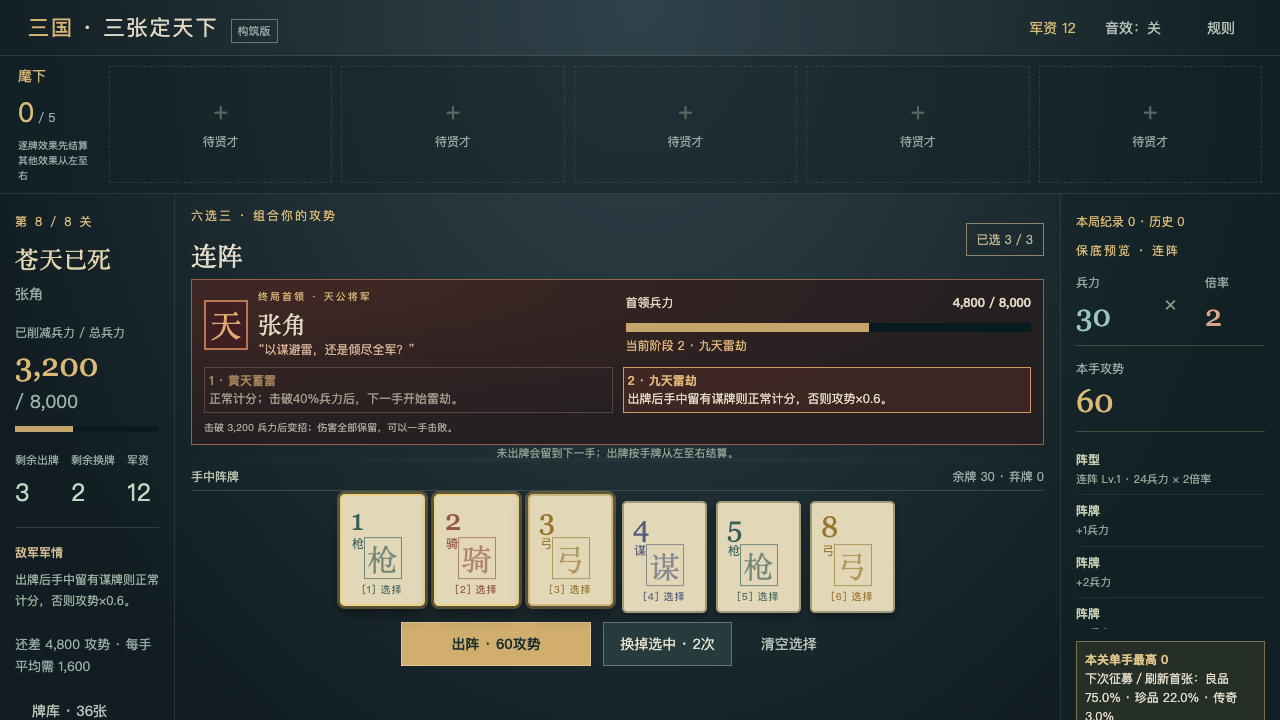
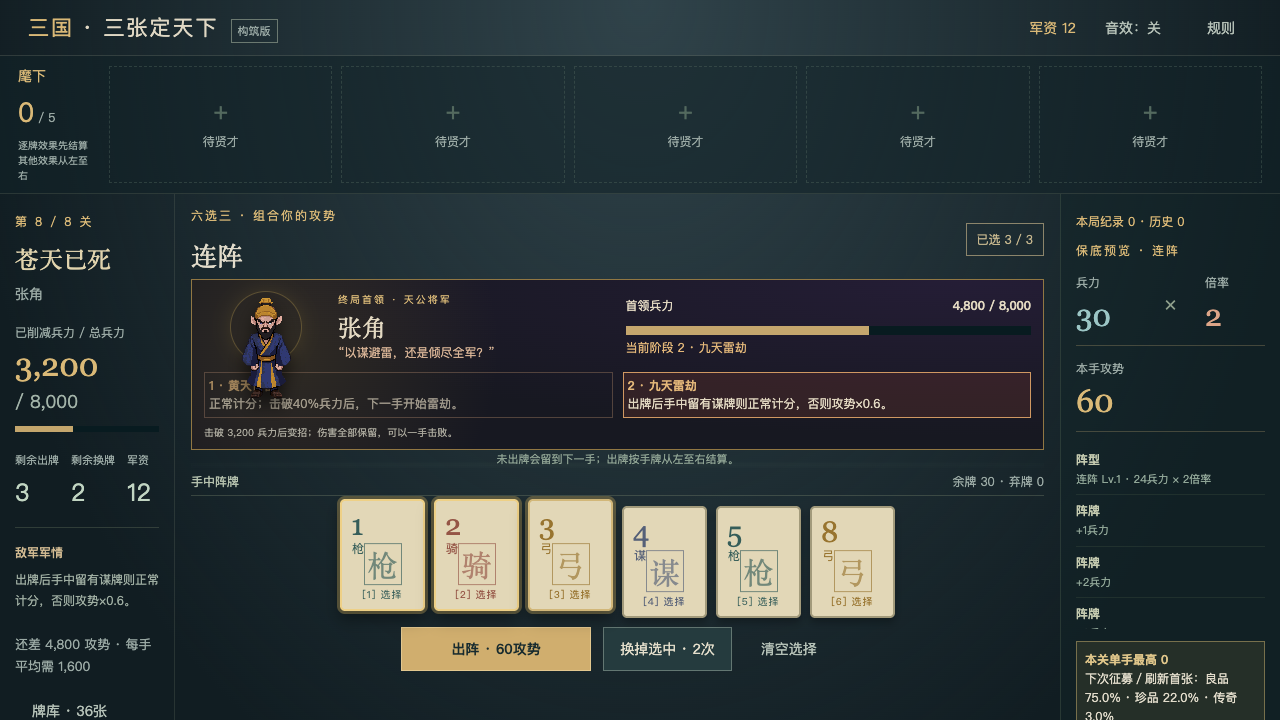
feat: animate Zhang Jiao boss encounter

diff --git a/apps/playtest/src/main.ts b/apps/playtest/src/main.ts
@@ -1,5 +1,6 @@
 import {gamblePanel,rarityPanel} from './burst';
 import {bossPanel} from './boss';
+import {runBossMotion} from './boss-motion';
 import {bossEncounter,forgeRule,newForge,forgeAction,forgeView,previewForge,saveForge,loadForge,backupForge,type ForgeState,type ForgeAction,type ArmyCard,type Score} from '@three-card/core';
 import {forgeStage,companionRarity,RARITY_NAMES,COMPANIONS,COMPANION_IDS,STAGES,FORGE_RULES as R,HAND_NAMES,SUIT_NAMES,type CompanionId} from '@three-card/content';
 const root=document.querySelector<HTMLDivElement>('#app')!;
@@ -23,7 +24,7 @@ function card(c:ArmyCard,i:number,mini=false){return `<button class="army-card $
 function band(){if(!state)return'';return `<section class="warband"><div class="band-title"><span>麾下</span><b>${state.companions.length}<small> / 5</small></b><small>逐牌效果先结算<br>其他效果从左至右</small></div><div class="band-slots">${Array.from({length:5},(_,i)=>{const held=state!.companions[i];if(!held)return`<div class="empty-slot"><b>＋</b><small>待贤才</small></div>`;const c=COMPANIONS[held.id],movable=['battle','shop','prepare'].includes(state!.phase);return `<article class="band-card ${!home&&state!.phase==='result'&&!showAll&&state!.result?.steps[Math.max(0,animation-1)]?.source===c.name?'triggering':''}"><div class="band-name"><span>${c.mark}</span><b>${c.name}</b><small>${c.role}</small></div><p>${c.text}</p><div class="band-bottom"><small>${held.growth?'已成长 +'+held.growth+' 倍率':''}</small>${movable?`<div>${btn('←',`left:${held.id}`,i===0,'move')}${btn('→',`right:${held.id}`,i===state!.companions.length-1,'move')}${state!.phase==='shop'?btn('出售',`sell:${held.id}`,false,'move'):''}</div>`:''}</div></article>`;}).join('')}</div></section>`;}
 function scorePanel(score:Score|null,actual=false){if(!score)return`<p class="eyebrow">出牌预览</p><h2>选择三张阵牌</h2><p class="muted">牌型定基础，组件改变价值。<br>不必每次追求最大的牌型。</p><div class="empty-score">？</div>`;const step=actual&&!showAll?score.steps[Math.max(0,animation-1)]:null;const chips=step?.chips??score.chips,mult=step?.mult??score.mult;return `<p class="eyebrow">${actual?'连锁结算':'保底预览'} · ${HAND_NAMES[score.category]}</p><div class="equation"><span><small>兵力</small><b>${fmt(chips)}</b></span><i>×</i><span><small>倍率</small><b>${fmt(mult)}</b></span></div><div class="total"><small>${score.penalty<1?'军情修正后的攻势':'本手攻势'}</small><b>${actual&&!showAll&&animation<score.steps.length?'···':fmt(score.total)}</b></div>${!actual&&state?.companions.some(c=>c.id==='pursuit')?'<p class="burst-hint">重触发后35%概率追加，最多3次；上方分数不含随机追加。</p>':''}<div class="ledger">${score.steps.slice(0,actual&&!showAll?animation:score.steps.length).map((s,i)=>`<div class="score-step ${actual&&!showAll&&i>=animation?'waiting':''}"><b>${s.source}</b><span>${s.text}</span></div>`).join('')}</div>${actual&&!showAll?btn('直接看结果','skip-animation',false,'plain'):''}`;}
 function render(){const v=state?forgeView(state):null;const boss=v?bossEncounter(v):null;const shifted=!!(v?.phase==='result'&&v.settlement!=='pending'&&boss&&v.score<v.target&&v.score>=boss.threshold&&v.score-v.result!.total<boss.threshold);let preview:Score|null=null;if(state&&chosen.length===3&&state.phase==='battle')try{preview=previewForge(state,chosen);}catch{}
-let body='';if(home){body=`<section class="landing"><div><p class="eyebrow">构筑试验 · v0.5.1 · 连锁冲分</p><h1>三张为阵<br><em>百策成军</em></h1><p class="lead">收名将，改阵牌，叠出自己的破军之势。<br>每一次征募，都可能让这一局走向不同的战法。</p><label class="seed-label">征程种子 · 留空随机<input id="seed" maxlength="100" placeholder="输入种子，可重玩同一组随机选择"></label><div class="actions">${btn('启程 · 先选核心','new',false,'primary')}${state?btn('继续征程','continue'):''}${btn('怎么玩','help')}</div><p class="record-line">历史单手纪录 ${fmt(bestEver)}</p><p class="muted">八关征程 · 22种组件 · 战后随机整编<br>1–6 选牌，Enter 出牌。开局核心可以自由选择。</p><a class="legacy-link" href="./legacy.html">对比 v0.1 旧版玩法 ↗</a></div><div class="landing-art"><div class="disc"></div><img src="./assets/zhao-yun.png" alt="赵云像素立绘"><span>一手牌的强弱<br>由你的构筑决定</span></div></section>`;}
+let body='';if(home){body=`<section class="landing"><div><p class="eyebrow">构筑试验 · v0.5.2 · 张角演出</p><h1>三张为阵<br><em>百策成军</em></h1><p class="lead">收名将，改阵牌，叠出自己的破军之势。<br>每一次征募，都可能让这一局走向不同的战法。</p><label class="seed-label">征程种子 · 留空随机<input id="seed" maxlength="100" placeholder="输入种子，可重玩同一组随机选择"></label><div class="actions">${btn('启程 · 先选核心','new',false,'primary')}${state?btn('继续征程','continue'):''}${btn('怎么玩','help')}</div><p class="record-line">历史单手纪录 ${fmt(bestEver)}</p><p class="muted">八关征程 · 22种组件 · 战后随机整编<br>1–6 选牌，Enter 出牌。开局核心可以自由选择。</p><a class="legacy-link" href="./legacy.html">对比 v0.1 旧版玩法 ↗</a></div><div class="landing-art"><div class="disc"></div><img src="./assets/zhao-yun.png" alt="赵云像素立绘"><span>一手牌的强弱<br>由你的构筑决定</span></div></section>`;}
 else if(v){body=band();if(['recruit','forge','shop'].includes(v.phase)){const next=forgeStage({...v,stage:Math.min(7,v.stage+1),challenge:v.stage===7?v.challenge+1:0});body+=`<div class=next-threat><b>斥候来报 · 下一关 ${next.enemy} · 目标 ${fmt(next.target)}</b><span>${next.text}</span></div>`;}if(['recruit','shop'].includes(v.phase))body+=rarityPanel(state!);if(v.phase==='starter'){body+=`<section class="wide-node"><p class="eyebrow">开局征募 · 决定第一步，后面仍可转型</p><h1>这一局，从谁开始？</h1><p>先拿到一个核心，再让奖励、改牌与商店帮你把它变强。</p><div class="recruit-grid">${v.recruits.map(id=>companion(id,`starter:${id}`)).join('')}</div></section>`;}
 else if(['battle','result'].includes(v.phase)){const actual=v.phase==='result',sc=actual?v.result:preview,ready=showAll||animation>=(v.result?.steps.length??0);body+=`<div class="battle-layout ${boss?'boss-battle':''}"><aside class="campaign-panel"><p class="eyebrow">${v.challenge?`极限挑战 · ${v.challenge}层`:`第 ${v.stage+1} / 8 关`}</p><h2>${forgeStage(v).name}</h2><p>${forgeStage(v).enemy}</p><div class="goal"><small>${boss?'已削减兵力 / 总兵力':'累计攻势 / 目标'}</small><b>${fmt(v.score)}</b><span>/ ${fmt(v.target)}</span><progress max="${v.target}" value="${Math.min(v.score,v.target)}"></progress></div><div class="resources"><div><small>剩余出牌</small><b>${v.hands}</b></div><div><small>剩余换牌</small><b>${v.discards}</b></div><div><small>军资</small><b>${v.gold}</b></div></div><div class="boss-rule"><b>${v.pressed?'加压出征 · 目标 +50%':'敌军军情'}</b><p>${boss?boss.current.text:forgeStage(v).text}</p>${forgeRule(v)==='ambush'?`<p class=threat-state>${v.scouted?'本手已破伏击 · 全额攻势':'伏击生效 · 换牌可解除'}</p>`:forgeStage(v).rule==='flank'?`<p class=threat-state>上手首牌：${v.lastSuit?SUIT_NAMES[v.lastSuit]:'尚未出阵'} · 按手牌从左至右判定</p>`:''}</div><p class=remaining-target>还差 ${fmt(Math.max(0,v.target-v.score))} 攻势${v.hands>0?` · 每手平均需 ${fmt(Math.ceil(Math.max(0,v.target-v.score)/v.hands))}`:''}</p>${btn(`牌库 · ${v.army.length}张`,'deck',false,'plain')}</aside><main class="battle-center"><div class="battle-heading"><div><p class="eyebrow">${actual?'破阵回响':'六选三 · 组合你的攻势'}</p><h2>${actual?(v.settlement==='pending'?'构筑发动 · 等待入账':v.score>=v.target?(boss?`${boss.name}已败`:'敌阵已破'):v.hands===0?'此役告终':shifted?'首领变招 · 准备应对':'整军，再出一手'):chosen.length===3?HAND_NAMES[preview!.category]:'选择三张阵牌'}</h2></div><span class="badge">${actual?'第'+v.played+'手':'已选 '+chosen.length+' / 3'}</span></div>${boss?bossPanel(v):''}<div class="played-area">${actual?v.result!.cards.map((c,i)=>`<div class="played-card">${card(c,i)}</div>`).join(''):`<div class="formation-slots">${Array.from({length:3},(_,i)=>{const c=v.hand.filter(c=>chosen.includes(c.id))[i];return c?`<div class="chosen-tile ${c.suit}"><b>${c.rank}</b><span>${SUIT_NAMES[c.suit]}</span>${c.bonus?`<small>+${c.bonus}</small>`:''}</div>`:'<div class="chosen-tile vacant">待命</div>';}).join('')}</div><p class="formation-note">未出牌会留到下一手；出牌按手牌从左至右结算。</p>`}</div><div class="hand-label"><span>${actual?'已出阵牌保留在上方，剩余手牌将在下一手补齐':'手中阵牌'}</span><small>余牌 ${v.drawCount} · 弃牌 ${v.discardCount}</small></div><div class="hand-row">${v.hand.map((c,i)=>card(c,i)).join('')}</div>${actual?gamblePanel(state!,ready):''}<div class="battle-actions">${actual?(v.settlement==='pending'?'':btn(v.score>=v.target?'收取战果 →':v.hands===0?'查看战报 →':shifted?'迎战第二阶段 →':'下一手 →','next',false,'primary next-button')):`${btn(`出阵 · ${preview?fmt(preview.total)+'攻势':'选择3张'}`,'play',chosen.length!==3,'primary')}${btn(`换掉选中 · ${v.discards}次`,'discard',chosen.length<1||v.discards<1)}${btn('清空选择','clear',!chosen.length,'plain')}`}</div></main><aside class="score-panel"><p class="record-line">本局纪录 ${fmt(v.stats.best)} · 历史 ${fmt(bestEver)}</p>${scorePanel(sc,actual)}${!actual?rarityPanel(state!,preview):''}</aside></div>`;}
 else if(v.phase==='prepare'){const stage=forgeStage(v);body+=`<section class="wide-node prepare"><div><p class="eyebrow">${v.challenge?`极限挑战 · ${v.challenge}层`:`第 ${v.stage+1} / 8 关`} · ${stage.enemy}</p><h1>${stage.name}</h1><p class="lead">${stage.text}</p><div class="prepare-stats"><span><small>基础目标</small><b>${fmt(stage.target)}</b></span><span><small>出牌次数</small><b>${stage.rule==='last-stand'?3:4}</b></span><span><small>换牌次数</small><b>${2+Number(v.companions.some(c=>c.id==='horse'))}</b></span></div><div class="actions">${btn('稳步进军','begin:normal',false,'primary')}${btn(`加压 · 目标${fmt(Math.ceil(stage.target*1.5))}`,'begin:pressure',false,'danger')}</div><p class="muted">加压胜后额外 +8军资。此选择在本关开始后不可更改。</p></div>${boss?bossPanel(v,true):''}<div class="briefing"><h3>你的构筑</h3>${v.companions.map(c=>`<p><b>${COMPANIONS[c.id].name}</b> · ${COMPANIONS[c.id].hint}</p>`).join('')}${btn('查看完整牌库','deck',false,'plain')}</div></section>`;}
@@ -39,6 +40,7 @@ else if(modal.startsWith('sell:')){const id=modal.slice(5) as CompanionId;overla
 else if(modal==='deck'&&v)overlay=`<h2>本局牌库 · ${v.army.length}张</h2><p>展示牌库构成，不显示未来抽牌顺序。</p><div class="deck-grid inspect">${v.army.map((c,i)=>card(c,i,true)).join('')}</div>${btn('返回','close',false,'primary')}`;
 root.innerHTML=`<header><button data-action="home" class="brand">三国<span>· 三张定天下</span><small>构筑版</small></button><nav>${!home&&v?`<span class="gold">军资 ${v.gold}</span>`:''}${btn(muted?'音效：关':'音效：开','mute',false,'plain')}${btn('规则','help',false,'plain')}</nav></header>${body}${overlay?`<div class="overlay"><section class="dialog ${modal==='deck'?'wide-dialog':''}" role="dialog" aria-modal="true">${overlay}</section></div>`:''}${notice?`<div class="notice" role="status">${escape(notice)}${btn('关闭','dismiss',false,'plain')}</div>`:''}`;
 if(state?.phase==='result'&&!showAll){const ledger=root.querySelector<HTMLElement>('.ledger');if(ledger)ledger.scrollTop=ledger.scrollHeight;}
+runBossMotion();
 }
 let newSeed='';
 function acquire(type:'recruit'|'buy',id:string){if(state&&id!=='skip'&&state.companions.length>=R.slots){pending={type,id};modal='replace';render();}else send({type,id});}

diff --git a/tests/browser/boss.spec.ts b/tests/browser/boss.spec.ts
@@ -1,6 +1,7 @@
 import {test,expect} from '@playwright/test';
-import {newForge,forgeAction,saveForge,bossEncounter} from '@three-card/core';
+import {newForge,forgeAction,saveForge,bossEncounter,type ForgeState} from '@three-card/core';
 function fixture(stage:number,second=false){let s=newForge('boss-browser-fixture');s.phase='prepare';s.stage=stage;s=forgeAction(s,{seq:s.seq,type:'begin'}).state;s.hand=['spear-1','cavalry-2','bow-3','scheme-4','spear-5','bow-8'];s.draw=s.army.filter(c=>!s.hand.includes(c.id)).map(c=>c.id);s.discard=[];s.score=second?bossEncounter(s)!.threshold:bossEncounter(s)!.threshold-1;s.scouted=true;return s;}
+async function load(page:import('@playwright/test').Page,s:ForgeState){const saved:Record<string,string>={};saveForge({get:k=>saved[k]??null,set:(k,v)=>{saved[k]=v;}},s);await page.goto('http://127.0.0.1:4173');await page.evaluate(data=>{localStorage.clear();for(const[k,v]of Object.entries(data))localStorage.setItem(k,v);},saved);await page.reload();await page.locator('[data-action=continue]').click();await page.waitForTimeout(180);}
 test('boss identity, transition, retained-card counterplay and reload at 1280',async({page})=>{
  await page.setViewportSize({width:1280,height:720});
  for(const stage of [3,7]){
@@ -14,4 +15,13 @@ test('boss identity, transition, retained-card counterplay and reload at 1280',a
  if(stage===7){await expect(page.locator('.ledger')).toContainText('以谋避雷');await page.locator('[data-action="card:bow-3"]').click();await page.locator('[data-action="card:scheme-4"]').click();await expect(page.locator('.ledger')).toContainText('未留下谋牌');await page.screenshot({path:'docs/evidence/boss-zhangjiao-1280.png'});}
  else{await page.locator('[data-action=play]').click();await page.waitForTimeout(180);if(await page.locator('[data-action=skip-animation]').count()){await page.locator('[data-action=skip-animation]').click();await page.waitForTimeout(180);}await page.locator('[data-action=bank]').click();await page.waitForTimeout(180);await expect(page.locator('.phase-shift')).toBeVisible();await expect(page.locator('[data-action=next]')).toHaveText('迎战第二阶段 →');await page.screenshot({path:'docs/evidence/boss-zhangbao-transition.png'});expect(await page.locator('[data-action=next]').evaluate(e=>e.getBoundingClientRect().bottom<=innerHeight)).toBe(true);await page.reload();await page.locator('[data-action=continue]').click();await expect(page.locator('.phase-shift')).toBeVisible();}
  }
+});
+
+test('Zhang Jiao uses distinct idle, hit, thunder and defeat pixel motions',async({page})=>{
+ await page.setViewportSize({width:1280,height:720});
+ let idle=fixture(7,true);await load(page,idle);await expect(page.locator('[data-boss-motion=idle]')).toBeVisible();await expect(page.locator('.boss-actor')).toBeVisible();
+ let hit=forgeAction(idle,{seq:idle.seq,type:'play',ids:idle.hand.slice(0,3)}).state;await load(page,hit);await expect(page.locator('[data-boss-motion=hit]')).toBeVisible();await page.waitForTimeout(220);await expect(page.locator('[data-boss-motion=hit]')).toHaveAttribute('src',/hit-[1-5]\.png/);await page.screenshot({path:'docs/evidence/boss-zhangjiao-hit.png'});
+ let thunder=fixture(7,false);thunder=forgeAction(thunder,{seq:thunder.seq,type:'play',ids:thunder.hand.slice(0,3)}).state;thunder=forgeAction(thunder,{seq:thunder.seq,type:'bank'}).state;await load(page,thunder);await expect(page.locator('[data-boss-motion=thunder]')).toBeVisible();await expect(page.locator('.boss-lightning.one')).toBeVisible();await page.waitForTimeout(500);await page.screenshot({path:'docs/evidence/boss-zhangjiao-thunder.png'});
+ let defeated=fixture(7,true);defeated.score=defeated.target-1;defeated=forgeAction(defeated,{seq:defeated.seq,type:'play',ids:defeated.hand.slice(0,3)}).state;defeated=forgeAction(defeated,{seq:defeated.seq,type:'bank'}).state;await load(page,defeated);await expect(page.locator('[data-boss-motion=defeat]')).toBeVisible();await page.waitForTimeout(800);await page.screenshot({path:'docs/evidence/boss-zhangjiao-defeat.png'});
+ await page.emulateMedia({reducedMotion:'reduce'});await load(page,fixture(7,true));const src=await page.locator('[data-boss-motion=idle]').getAttribute('src');await page.waitForTimeout(300);expect(await page.locator('[data-boss-motion=idle]').getAttribute('src')).toBe(src);
 });

diff --git a/apps/playtest/public/forge.css b/apps/playtest/public/forge.css
@@ -11,3 +11,6 @@
 
 .battle-layout:has(.wager-panel) .played-card .rank,.battle-layout:has(.wager-result) .played-card .rank,.battle-layout:has(.reveal-prompt) .played-card .rank{font-size:22px;top:5px;left:8px}.battle-layout:has(.wager-panel) .played-card .suit,.battle-layout:has(.wager-result) .played-card .suit,.battle-layout:has(.reveal-prompt) .played-card .suit{font-size:13px;top:8px;right:8px;bottom:auto}
 .random-forge{display:grid;grid-template-columns:minmax(0,1fr) 330px;gap:70px;align-items:center;padding-top:58px}.random-forge h1{margin-bottom:16px}.random-edit-card{position:relative;min-height:270px;border:1px solid #b89a63;background:radial-gradient(circle at 80% 10%,#c5a35e22,transparent 42%),linear-gradient(145deg,#34483f,#1d3333);padding:52px 28px 26px;display:flex;flex-direction:column;justify-content:flex-end;gap:12px;box-shadow:0 18px 45px #0004}.random-edit-card>b{font:26px "Songti SC",serif;color:#e6cf9c}.random-edit-card>small{margin-bottom:14px}.random-edit-card .seal-mark{top:22px}.random-edit-result{display:flex;align-items:center;gap:16px;border:1px solid #b4935d;background:#3b3c2a;padding:14px 18px;margin-bottom:22px}.random-edit-result b{color:#eccd87}.random-edit-result span{color:#d7dfc6}@media(max-width:800px){.random-forge{grid-template-columns:1fr;gap:28px;padding-top:30px}.random-edit-card{min-height:220px}}
+.boss-7{position:relative;overflow:hidden;background:radial-gradient(circle at 11% 40%,#90742e35,transparent 28%),radial-gradient(ellipse at 90% 0,#39255566,transparent 65%),#171821;border-color:#917743}.boss-7 .boss-identity{position:relative;z-index:2}.boss-actor{width:104px;height:104px;position:relative;display:grid;place-items:center;flex:0 0 104px}.boss-actor img{width:104px;height:104px;object-fit:contain;image-rendering:pixelated;position:relative;z-index:2;filter:drop-shadow(0 9px 8px #0009)}.boss-aura{position:absolute;width:78px;height:78px;border-radius:50%;border:1px solid #c3a45155;box-shadow:0 0 20px #c7a64222;z-index:1}.boss-lightning{display:none;position:absolute;width:6px;height:94px;background:linear-gradient(90deg,transparent,#fff5bd,#d6ad3a,transparent);clip-path:polygon(45% 0,100% 0,62% 42%,100% 42%,20% 100%,43% 55%,0 55%);z-index:3;filter:drop-shadow(0 0 6px #f5cf55)}.boss-lightning.one{right:8px;top:-7px;transform:rotate(18deg)}.boss-lightning.two{left:9px;top:10px;transform:rotate(-23deg) scale(.72)}.boss-state-hit .boss-actor{animation:boss-hit-shake .3s steps(2)}.boss-state-hit .boss-actor img{filter:brightness(1.8) sepia(.5) drop-shadow(0 0 10px #f2c65d)}.boss-state-thunder:before{content:"";position:absolute;inset:0;background:linear-gradient(115deg,transparent 18%,#fff8cabb 19%,transparent 21%,transparent 58%,#b894ff66 59%,transparent 61%);animation:boss-storm-flash .9s steps(2) 2;z-index:1}.boss-state-thunder .boss-lightning{display:block;animation:boss-lightning .28s steps(2) 4}.boss-state-thunder .boss-aura{border-color:#ffe68d;box-shadow:0 0 36px #e9bd4caa;animation:boss-aura-pulse .55s ease-in-out infinite alternate}.boss-state-defeat .boss-aura{opacity:0}.boss-state-defeat .boss-actor{filter:saturate(.35)}@keyframes boss-hit-shake{0%,100%{transform:translateX(0)}25%{transform:translateX(-5px)}75%{transform:translateX(5px)}}@keyframes boss-storm-flash{0%,100%{opacity:0}50%{opacity:1}}@keyframes boss-lightning{0%,100%{opacity:0}50%{opacity:1}}@keyframes boss-aura-pulse{from{transform:scale(.92);opacity:.45}to{transform:scale(1.14);opacity:1}}@media(prefers-reduced-motion:reduce){.boss-state-hit .boss-actor,.boss-state-thunder:before,.boss-state-thunder .boss-lightning,.boss-state-thunder .boss-aura{animation:none}.boss-state-thunder:before{opacity:.28}.boss-state-thunder .boss-lightning{opacity:.75}}@media(max-height:760px){.boss-actor{width:76px;height:76px;flex-basis:76px}.boss-actor img{width:76px;height:76px}.boss-aura{width:58px;height:58px}.boss-7 .boss-identity{align-items:center}}
+.boss-actor{width:148px;height:112px;flex-basis:148px}.boss-actor img{width:148px;height:148px}@media(max-height:760px){.boss-actor{width:124px;height:78px;flex-basis:124px}.boss-actor img{width:124px;height:124px}.boss-aura{width:72px;height:72px}}
+.boss-actor,.boss-state-thunder:before{pointer-events:none}

diff --git a/apps/playtest/src/boss.ts b/apps/playtest/src/boss.ts
@@ -1,4 +1,6 @@
 import {bossEncounter,type ForgeView} from '@three-card/core';
+import {zhangJiaoActor,type BossMotion} from './boss-motion';
 export function bossPanel(v:ForgeView,prepare=false){const b=bossEncounter(v);if(!b)return '';const defeated=v.score>=v.target,transition=v.phase==='result'&&v.settlement!=='pending'&&!defeated&&v.score-v.result!.total<b.threshold&&v.score>=b.threshold;
-return `<section class="boss-encounter boss-${v.stage} ${transition?'phase-shift':''}" aria-label="${b.name}首领战"><div class="boss-identity"><span class="boss-sigil" aria-hidden="true">${b.mark}</span><div><p class="eyebrow">${v.stage===7?'终局首领':'章节首领'} · ${b.title}</p><h2>${b.name}</h2><p class="boss-quote">“${defeated?b.defeated:b.current.quote}”</p></div></div>${prepare?`<p>${b.intro}</p>`:`<div class="boss-health"><label>首领兵力 <b>${b.remaining.toLocaleString()} / ${v.target.toLocaleString()}</b></label><progress max="${v.target}" value="${b.remaining}"></progress><small>${defeated?'首领已击败':transition?'阶段突破！下一手招式改变':`当前阶段 ${b.phase+1} · ${b.current.name}`}</small></div>`}<div class="boss-phases">${b.phases.map((p,i)=>`<div class="${!prepare&&i===b.phase?'current':''}"><b>${i+1} · ${p.name}</b><span>${p.text}</span></div>`).join('')}</div><p class="boss-threshold">击破 ${b.threshold.toLocaleString()} 兵力后变招；伤害全部保留，可以一手击败。${prepare?'整场共用出牌与换牌次数。':''}</p></section>`;
+const motion:BossMotion=defeated?'defeat':transition?'thunder':v.phase==='result'&&v.settlement==='pending'?'hit':'idle',isZhangJiao=v.stage===7,portrait=isZhangJiao?zhangJiaoActor(motion,`${motion}-${v.played}-${v.score}`):`<span class="boss-sigil" aria-hidden="true">${b.mark}</span>`,motionClass=isZhangJiao?`boss-state-${motion}`:'';
+return `<section class="boss-encounter boss-${v.stage} ${motionClass} ${transition?'phase-shift':''}" aria-label="${b.name}首领战"><div class="boss-identity">${portrait}<div><p class="eyebrow">${isZhangJiao?'终局首领':'章节首领'} · ${b.title}</p><h2>${b.name}</h2><p class="boss-quote">“${defeated?b.defeated:b.current.quote}”</p></div></div>${prepare?`<p>${b.intro}</p>`:`<div class="boss-health"><label>首领兵力 <b>${b.remaining.toLocaleString()} / ${v.target.toLocaleString()}</b></label><progress max="${v.target}" value="${b.remaining}"></progress><small>${defeated?'首领已击败':transition?'阶段突破！下一手招式改变':`当前阶段 ${b.phase+1} · ${b.current.name}`}</small></div>`}<div class="boss-phases">${b.phases.map((p,i)=>`<div class="${!prepare&&i===b.phase?'current':''}"><b>${i+1} · ${p.name}</b><span>${p.text}</span></div>`).join('')}</div><p class="boss-threshold">击破 ${b.threshold.toLocaleString()} 兵力后变招；伤害全部保留，可以一手击败。${prepare?'整场共用出牌与换牌次数。':''}</p></section>`;
 }

diff --git a/tools/smoke-forge.ts b/tools/smoke-forge.ts
@@ -26,5 +26,5 @@ try{
  const challenge=await read();assert.equal(challenge.challenge,1);assert.equal(challenge.stats.cleared,8);assert.equal(challenge.stats.edits,completed.stats.edits+1);for(const card of completed.army){const kept=challenge.army.find(c=>c.id===card.id);assert.ok(kept);assert.equal(kept.suit,card.suit);assert.ok(kept.rank>=card.rank);assert.ok(kept.bonus>=card.bonus);}assert.ok(challenge.levels.every((level,i)=>level>=completed.levels[i]));assert.ok(challenge.stats.best>=completed.stats.best);await page.screenshot({path:'docs/evidence/burst-native-endless.png'});
  await act({type:'play',ids:bestForgeHand(challenge).ids});if(await page.locator('[data-action=skip-animation]').count())await click('skip-animation');await click('gamble');const wagered=await read();assert.ok(['win','loss'].includes(wagered.settlement));await page.screenshot({path:'docs/evidence/burst-native-wager.png'});
  await app.close();app=await launch();page=await app.firstWindow();page.on('pageerror',e=>errors.push(e.message));await page.waitForSelector('[data-action=continue]');await click('continue');assert.deepEqual(await read(),wagered);assert.equal(await page.locator('[data-action=gamble]').count(),0);assert.deepEqual(errors,[]);
- await writeFile('docs/evidence/forge-v051-desktop-smoke.json',JSON.stringify({version:'0.5.1',platform:process.platform,arch:process.arch,packaged:!!process.env.THREE_CARD_EXECUTABLE,offlineLocalPages:true,legacyNavigation:true,rendererNodeDisabled:true,minimizePause:true,restartRestore:true,fullCampaignVictory:true,endlessContinuation:true,wagerSettledAndRestored:true,randomPostBattleEdit:true,errors},null,2)+'\n');console.log('Forge desktop: native campaign, random edit, local legacy navigation, pause and restart restore passed.');
+ await writeFile('docs/evidence/forge-v052-desktop-smoke.json',JSON.stringify({version:'0.5.2',saveContentVersion:'0.5.1',platform:process.platform,arch:process.arch,packaged:!!process.env.THREE_CARD_EXECUTABLE,offlineLocalPages:true,legacyNavigation:true,rendererNodeDisabled:true,minimizePause:true,restartRestore:true,fullCampaignVictory:true,endlessContinuation:true,wagerSettledAndRestored:true,randomPostBattleEdit:true,zhangJiaoAnimation:true,errors},null,2)+'\n');console.log('Forge desktop: native campaign, Zhang Jiao animation, random edit, local legacy navigation, pause and restart restore passed.');
 }finally{await app.close().catch(()=>{});}

diff --git a/apps/playtest/src/boss-motion.ts b/apps/playtest/src/boss-motion.ts
@@ -1,0 +1,25 @@
+export type BossMotion='idle'|'hit'|'thunder'|'defeat';
+
+const ROOT='./assets/bosses/zhang-jiao/';
+const FRAMES:Record<BossMotion,string[]>={
+ idle:Array.from({length:4},(_,i)=>`idle-${i}.png`),
+ hit:Array.from({length:6},(_,i)=>`hit-${i}.png`),
+ thunder:Array.from({length:9},(_,i)=>`thunder-${i}.png`),
+ defeat:Array.from({length:7},(_,i)=>`defeat-${i}.png`),
+};
+const FRAME_MS:Record<BossMotion,number>={idle:190,hit:95,thunder:115,defeat:130};
+let timer:ReturnType<typeof setTimeout>|undefined,currentKey='',started=0;
+
+export function zhangJiaoActor(motion:BossMotion,key:string){return `<div class="boss-actor boss-motion-${motion}" aria-hidden="true"><i class="boss-aura"></i><i class="boss-lightning one"></i><i class="boss-lightning two"></i><img src="${ROOT}${FRAMES[motion][0]}" data-boss-motion="${motion}" data-boss-key="${key}" alt=""></div>`;}
+
+export function runBossMotion(){
+ clearTimeout(timer);
+ const image=document.querySelector<HTMLImageElement>('img[data-boss-motion]');
+ if(!image){currentKey='';return;}
+ const motion=image.dataset.bossMotion as BossMotion,key=image.dataset.bossKey!,frames=FRAMES[motion];
+ if(key!==currentKey){currentKey=key;started=performance.now();}
+ const elapsed=performance.now()-started,raw=Math.floor(elapsed/FRAME_MS[motion]);
+ const index=motion==='idle'?raw%frames.length:Math.min(frames.length-1,raw);
+ image.src=ROOT+frames[index];
+ if(!matchMedia('(prefers-reduced-motion: reduce)').matches&&(motion==='idle'||index<frames.length-1))timer=setTimeout(runBossMotion,FRAME_MS[motion]);
+}

diff --git a/README.md b/README.md
@@ -1,6 +1,6 @@
 # 三国 · 三张定天下
 
-Steam PC 单人买断方向的三国卡牌肉鸽。当前默认是 **v0.5.1 连锁冲分版**：六张选三张，通过武将、军宝、成长和战后随机整编，挑战递增的敌军目标。
+Steam PC 单人买断方向的三国卡牌肉鸽。当前默认是 **v0.5.2 张角演出版**：六张选三张，通过武将、军宝、成长和战后随机整编，挑战递增的敌军目标。
 
 先试「启程」→选关羽、周瑜或刘备→普通进军。每关胜后征募、整编、逛商店。支持1–6选牌、Enter出牌/下一手、自动存档与原生最小化暂停。
 
@@ -26,7 +26,7 @@ npm run package:win         # Windows x64交叉打包
 
 22个组件、5个槽、4类随机正向整编、8关、开局选核心、逐步结算、即时预览、刷新/买卖/替换。每场胜利后可随机获得复制阵牌、升点、强化或牌型升级中的一项，也可跳过换3军资。默认随机种子，可输入 `forge-v051-7` 重玩本版通关测试种子；没有暗中保送奖励。
 
-这是可玩开发原型，尚未验证真人重复游玩的吸引力。本轮提高后半程目标并加入换牌/首牌兵种应对；数值仍待真人复测。Windows原生、五人试玩、正式美术、Steam商店与上传均未完成。
+这是可玩开发原型，尚未验证真人重复游玩的吸引力。本轮为第8关张角加入 PixelLab 待机、受击、雷法变招与败亡动作，并配合暗场、雷光和受击反馈；张宝和其他角色仍使用代码图形。Windows原生、五人试玩、完整正式美术、Steam商店与上传均未完成。
 
 主界面链接可进入v0.1旧版，旧规则和测试继续保留。新旧存档分别存储，不强制迁移；桌面和浏览器不共享存档。macOS桌面数据位于 `~/Library/Application Support/ThreeCardKingdoms`。
 
@@ -50,3 +50,5 @@ npm run package:win         # Windows x64交叉打包
 最新证据：[v0.5 连锁冲分与押分](docs/evidence/FORGE_V05.md)。
 
 随机整编验证：[v0.5.1 战后整编](docs/evidence/FORGE_V051.md)。
+
+张角演出验证：[v0.5.2 PixelLab Boss 动画](docs/evidence/BOSS_ANIMATION_V052.md)。

diff --git a/docs/evidence/BOSS_ANIMATION_V052.md b/docs/evidence/BOSS_ANIMATION_V052.md
@@ -1,0 +1,20 @@
+# v0.5.2 张角 Boss 动画验证
+
+## 玩家可见变化
+
+第8关张角现在按战斗状态播放四组独立像素动作：等待选牌时呼吸待机，攻势待入账时受击，跨过40%兵力进入第二阶段时施放“九天雷动”，归零后播放败亡。第二阶段同时出现暗场、法环和两道雷线，受击使用短促闪白与位移，击败后降低色彩与亮度。
+
+动作只读取已经公开的界面状态，不推进核心规则、牌序或随机流。系统启用“减少动态效果”时，角色与特效停止循环，保留静态首帧。v0.5.2没有改变schemaVersion6/contentVersion0.5.1，现有v0.5.1征程可以继续。
+
+## 素材
+
+本轮按用户指定使用 PixelLab MCP 创建张角角色 `86a62d1c-6444-4226-8b63-8abf1a1a397f`，并生成待机4帧、受击6帧、雷法9帧、败亡7帧，共26张透明PNG。完整提示词、生成组ID和动画ID登记在 `apps/playtest/public/assets/bosses/zhang-jiao/manifest.json`。素材保持原始136×136画布，页面以像素化缩放显示。
+
+## 自动验证
+
+- `tests/browser/boss.spec.ts` 验证四种状态、阶段阈值与减少动态效果，并保留1280×720截图。
+- `npm test` 验证规则、组件、事务和存档不受演出改动影响。
+- `npm run test:browser` 验证完整浏览器流程。
+- macOS arm64与Windows x64目录包均重新生成；macOS打包应用执行完整征程、随机整编、极限挑战、最小化和重启恢复。
+
+截图：`boss-zhangjiao-hit.png`、`boss-zhangjiao-thunder.png`、`boss-zhangjiao-defeat.png`。桌面验证结果写入 `forge-v052-desktop-smoke.json`。Windows仍是交叉打包，尚未在Windows机器原生运行。

diff --git a/openspec/changes/establish-three-card-campaign/design.md b/openspec/changes/establish-three-card-campaign/design.md
@@ -64,3 +64,9 @@ schemaVersion3/contentVersion0.3.0，新独立存档键保留v0.2进度；新字
 战后整编不再要求玩家先选六类操作再遍历整副牌库。界面只提供一次“军师整编”：从复制随机阵牌、随机阵牌升点、随机阵牌强化、随机牌型升级四类正向结果中等概率抽一类，再随机合法目标；达到上限的类别临时移出池。删牌与改兵种不进入随机池，避免系统在没有玩家选择时破坏构筑。玩家仍可跳过并获得3军资。
 
 结果使用 reward 随机流并写入状态，重复或阶段错误的命令不推进随机。整编完成后在商店展示具体结果，离开商店后清除提示。schema6/content0.5.1，独立v6存档保留v5。
+
+## v0.5.2 张角像素演出样板
+
+第八关张角加入 PixelLab 96×96 像素角色，以正面方向制作待机、受击、举杖引雷和败亡四组动画。界面根据公开状态选择动作：备战与普通选择显示待机；已出牌待入账显示受击；跨过40%阶段线显示引雷；击败显示败亡。阶段变招额外使用代码生成的雷光、暗场和屏幕震动，以素材动作作为主体。
+
+动画属于渲染层，不改变 core 状态、随机、分数或存档版本。减少动态效果时停在各动作的可读关键帧。素材放入独立 `assets/bosses/zhang-jiao/`，记录 PixelLab 角色ID、提示词、动画组ID与实际帧数。

diff --git a/openspec/changes/establish-three-card-campaign/tasks.md b/openspec/changes/establish-three-card-campaign/tasks.md
@@ -119,3 +119,11 @@
 - [x] 15.3 使用独立v6存档，完成规则、回归、桌面打包与本机启动证据。
 
 验证：67项规则测试、10项浏览器测试通过；macOS与Windows包已生成，打包后的macOS应用完成八关、随机整编、极限挑战、最小化和重启恢复。Windows仍只有交叉打包。证据见 `docs/evidence/FORGE_V051.md` 与 `docs/evidence/forge-v051-desktop-smoke.json`。
+
+## 16. v0.5.2 张角像素演出样板
+
+- [x] 16.1 使用 PixelLab 生成并登记张角角色、待机、受击、雷劫变招与败亡动作。
+- [x] 16.2 将动作接入第八关公开状态，加入雷光、暗场、受击与击败反馈，并支持减少动态效果。
+- [x] 16.3 完成浏览器、规则回归、桌面打包与本机演出证据；提交并推送 GitHub。
+
+验证：PixelLab 生成26帧透明PNG并登记角色、生成组和动画ID；67项规则测试、11项浏览器测试通过。macOS与Windows目录包已重新生成，打包后的macOS应用完成八关、张角演出、随机整编、极限挑战、最小化和重启恢复。证据见 `docs/evidence/BOSS_ANIMATION_V052.md` 与 `docs/evidence/forge-v052-desktop-smoke.json`；Windows仍只有交叉打包。
